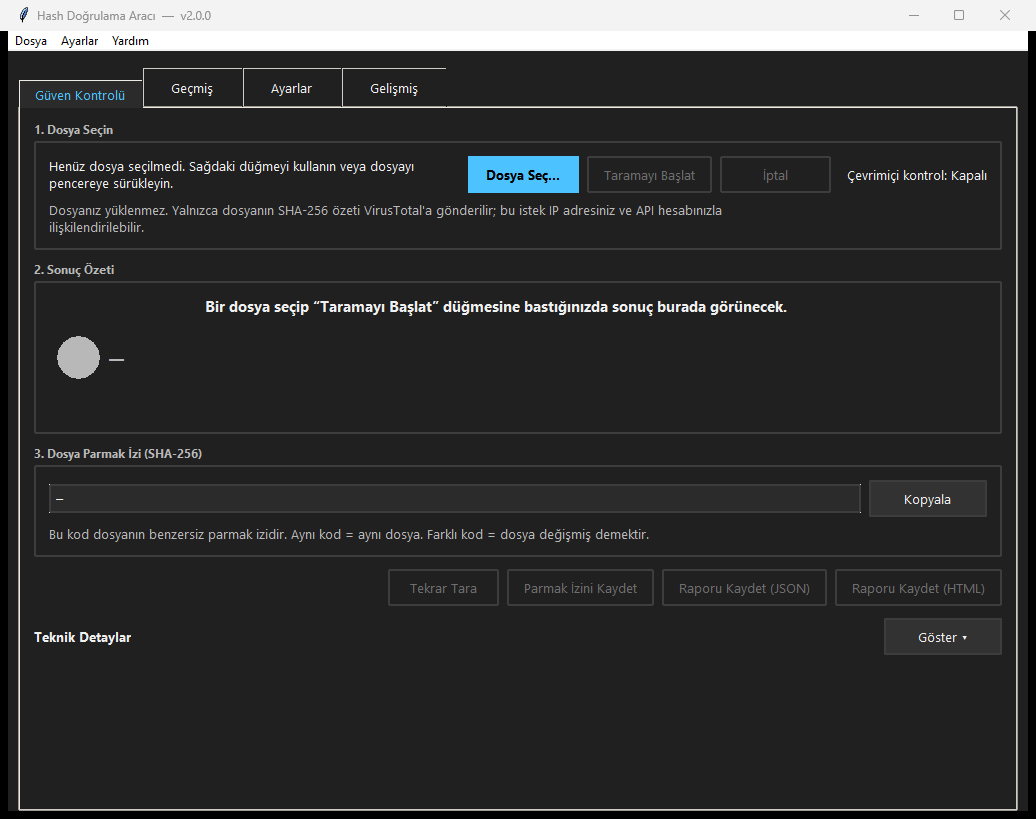
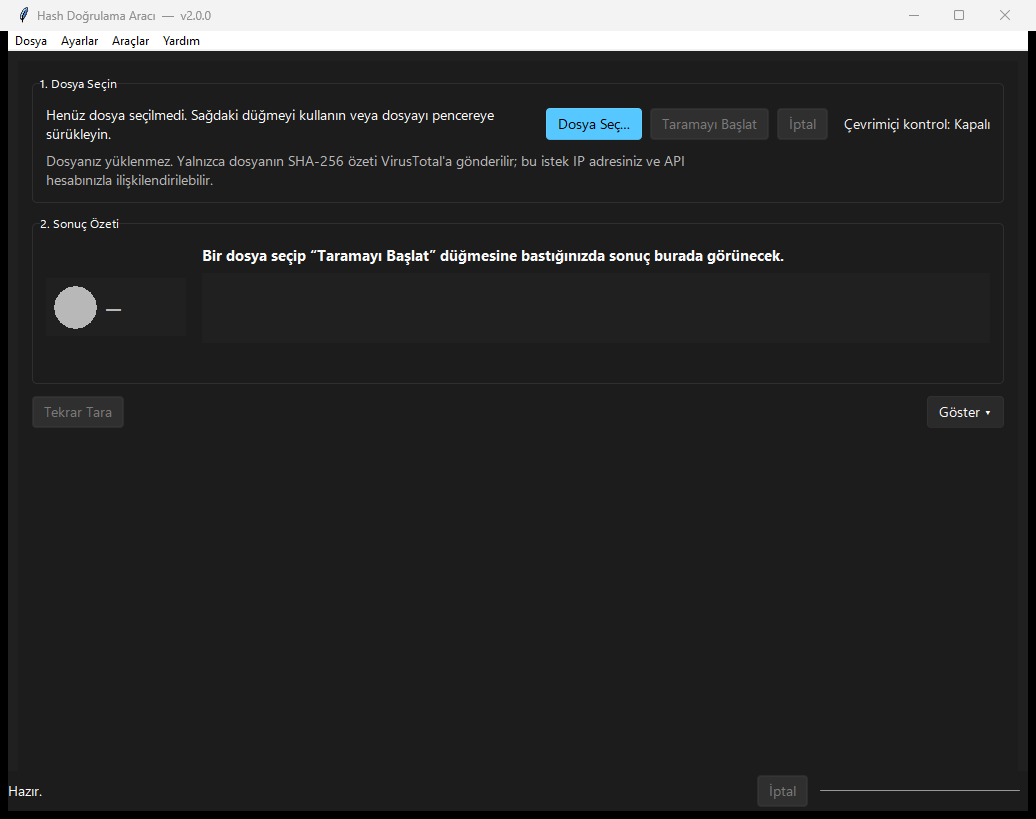
release: v2.1.0 — single-page GUI, Sun Valley, rebuilt executables
Bumps the version and brings docs + build in line with the single-page redesign
and the Sun Valley theme:

- core/__init__: 2.0.0 -> 2.1.0 (minor: new GUI features, no breaking change)
- build_gui_exe.bat: --collect-data sv_ttk so the frozen GUI ships the theme's
  .tcl files; without them set_theme() fails in the EXE and the modern look is
  silently lost
- CHANGELOG: [2.1.0] entry
- README: single-page usage, Araçlar menu, v2.1.0 status, new dark screenshot;
  the old v1.2.0 comparison shot (main.png) is left as-is

Both executables were rebuilt from this source (v2.1.0) and verified:
verify_exe_smoke.py 12/12 (CLI) and --gui (window opens, Sun Valley present).
The EXEs and SHA256SUMS live only in dist/ (gitignored) and go to the GitHub
Release, not the repo.

diff --git a/core/__init__.py b/core/__init__.py
@@ -1,3 +1,3 @@
 """Core hashing, manifest, verification and file-trust logic."""
 
-__version__ = "2.0.0"
+__version__ = "2.1.0"

diff --git a/README.md b/README.md
@@ -5,22 +5,43 @@ file is. Starting in v1.2 the main surface is a beginner-friendly
 **"Güven Kontrolü"** screen that hashes a file, looks the hash up on
 VirusTotal, checks the Windows digital signature, compares against a
 local fingerprint and shows a plain-language risk summary — without
-ever uploading the file. The original CLI and the **Advanced** tab
-keep all of v1.1's hash / verify / report power.
+ever uploading the file. The original CLI and the **Gelişmiş** tools (now in
+the **Araçlar** menu) keep all of v1.1's hash / verify / report power.
 
-> **Status:** v2.0.0 — a security and correctness revision, with breaking
-> changes to the CLI contract. 632 passing unit tests, 0 skipped.
+> **Status:** v2.1.0 — a single-page redesign with a modern Windows 11 look
+> (Sun Valley). 634 passing unit tests, 0 skipped.
 
-![Güven Kontrolü, koyu tema](docs/screenshots/main-dark.png)
+![Güven Kontrolü — tek sayfa, koyu tema](docs/screenshots/main-dark.png)
 
-![Güven Kontrolü, açık tema](docs/screenshots/main-light.png)
-
-Both are the same build, v2.0.0, photographed through Win32 rather than
-recreated. The menu strip along the top stays light in the dark shot because
-Windows draws it and ignores what Tk is told — a limitation named here rather
-than cropped out.
+The whole application is one screen now: drop a file, read the verdict. History,
+Settings and the power-user tools live in the **Araçlar** menu, and everything
+technical on the main screen sits behind one **Göster** ("İleri") toggle.
+Photographed through Win32 rather than recreated. The menu strip along the top
+stays light because Windows draws it and ignores what Tk is told — a limitation
+named here rather than cropped out.
 
 ---
+
+## What is new in v2.1.0
+
+The application became one screen. For a first-time user the whole surface is:
+drop a file, read the verdict. Nothing was removed — everything technical moved
+out of the way.
+
+- **One screen instead of four tabs.** Güven Kontrolü fills the window;
+  History, Settings and the Hash / Verify / Report power tools moved to the
+  **Araçlar** menu, each opening in its own window.
+- **The main screen hides what a beginner does not need.** The SHA-256
+  fingerprint, the save/export buttons and the detail tabs sit behind one
+  **Göster** ("İleri") toggle.
+- **A modern Windows 11 look** via the Sun Valley theme (`sv-ttk`), while the
+  app keeps the palette it measured for contrast. Optional: the GUI falls back
+  to its own styling if `sv-ttk` is missing, and the build bundles it with
+  `--collect-data sv_ttk`.
+- **Logs persist** — moved to `%LOCALAPPDATA%\HashTool\logs` so a PyInstaller
+  onefile build no longer loses them to a temporary directory.
+
+See [CHANGELOG.md](CHANGELOG.md) under `[2.1.0]` for the full account.
 
 ## What is new in v2.0.0
 
@@ -291,14 +312,15 @@ local fingerprint) still works.
 
 ### How to scan a file
 
-1. **Güven Kontrolü** tab → click **Dosya Seç…** (or drag a file onto
-   the window if `windnd` is installed).
+1. On the main screen click **Dosya Seç…** (or drag a file onto the window if
+   `windnd` is installed).
 2. Click **Taramayı Başlat**.
 3. Read the risk badge (Düşük / Orta / Yüksek / Bilinmiyor) and the
    short summary at the top.
-4. Click **Teknik Detaylar → Göster ▾** if you want the full hashes,
-   raw VirusTotal stats and signature details.
-5. Optional next steps:
+4. Click **Göster ▾** ("İleri") if you want the SHA-256 fingerprint, the
+   save/export buttons and the full detail tabs (hashes, raw VirusTotal stats,
+   signature details).
+5. Optional next steps (under **Göster ▾**):
    - **Parmak İzini Kaydet** — remember this file's SHA-256 so the
      next scan will tell you if the file changed.
    - **Raporu Kaydet (JSON / HTML)** — export a shareable report.
@@ -308,7 +330,7 @@ Cancellation is cooperative, so the button shows *İptal ediliyor…* until the
 worker reaches its next stage — a VirusTotal or signature check already in
 flight still has to return.
 
-The other top-level tabs:
+The other tools live in the **Araçlar** menu, each opening in its own window:
 
 - **Geçmiş** — last N scans, double-click a row to re-run the check.
 - **Ayarlar** — VirusTotal key (with **Anahtarı Kaldır** to delete a stored

diff --git a/CHANGELOG.md b/CHANGELOG.md
@@ -88,6 +88,35 @@ claim, which turned out to be less than it looked.
 - The three tests are left failing there on purpose. Loosening them to pass
   would hide a real environmental limitation.
 
+## [2.1.0] — 2026-09-12
+
+The application became one screen. Everything a first-time user needs is now in
+a single window — drop a file, read the verdict — and everything technical
+moved out of the way without being removed.
+
+### Changed
+- **The four tabs collapsed to one screen.** Trust Check fills the window;
+  History, Settings and the power-user Hash/Verify/Report tools moved to a
+  Tools menu that opens each in its own window, hidden until asked for. No
+  feature was removed — every one is a click away.
+- **The main screen hides what a beginner does not need.** The SHA-256
+  fingerprint, the save/export buttons and the per-check detail tabs now sit
+  behind one "İleri" toggle. The first screen is: pick a file, read the verdict.
+- **A modern Windows 11 look.** Widget styling now comes from the Sun Valley
+  theme (`sv-ttk`) — rounded buttons, a real accent action, proper dark/light
+  surfaces — while the app keeps the text, risk and badge colours it measured
+  for contrast. `sv-ttk` is optional; the app falls back to its own styling if
+  it is missing, and the GUI build bundles it with `--collect-data sv_ttk`.
+- `ScanController`'s state enum was renamed `ScanState` → `ControllerState` so
+  it no longer shadows the scan-progress `ScanState` in `core.hash_utils`. Enum
+  values are unchanged, so nothing serialised moves.
+
+### Fixed
+- **Logs are written where they persist.** The log file moved from an
+  exe-adjacent `logs/` dir — which in a PyInstaller onefile build is a temporary
+  `_MEI` directory that vanishes on exit — to the per-user data dir the settings
+  already use (`%LOCALAPPDATA%\HashTool\logs`), with a source-adjacent fallback.
+
 ## [2.0.0] — 2026-08-20
 
 A security and correctness revision. Several changes are deliberately
